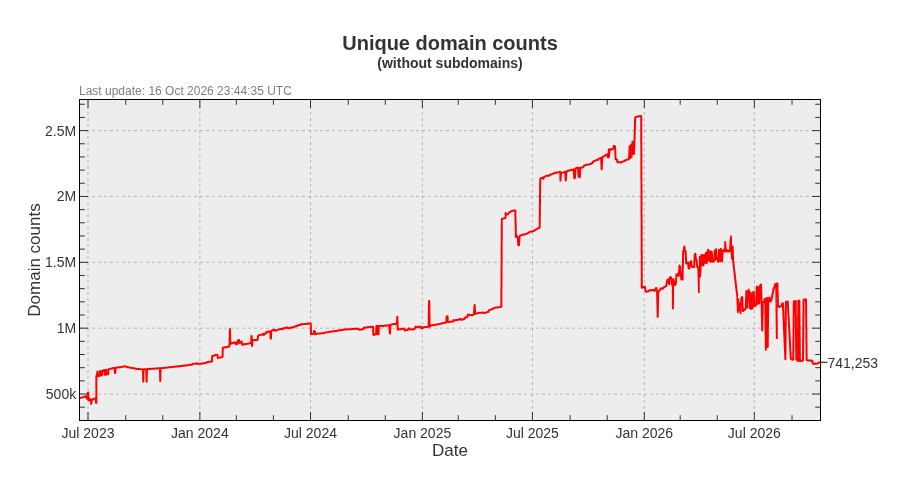
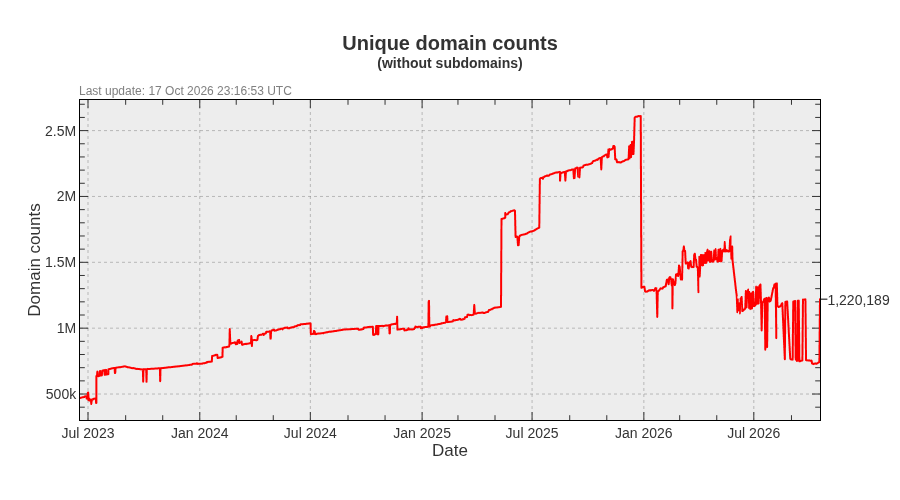
Update pages

diff --git a/README.md b/README.md
@@ -3,22 +3,22 @@ A blocklist file for blocking ads, trackers and malware domains.
 
[1 lines of base64/hex data omitted]
 
-- Unique domains: 1,461,130
-- Without subdomains: 741,253
-- Last update: 16 Oct 2026 23:44:35 UTC
-- Version: 2026.10.16.01
+- Unique domains: 2,002,277
+- Without subdomains: 1,220,189
+- Last update: 17 Oct 2026 23:16:53 UTC
+- Version: 2026.10.17.01
 
 
 ## Downloads:
 
 | Format             | Domain count      | Download Link |
 |------------------ | -----------------|-------------|
-| *Adblock Plus*     | 741,253 | [bad-hosts-abp](https://dl.cenk.app/bad-hosts/bad-hosts-abp) |
-| *Wildcard domains* | 741,253 | [bad-hosts-wildcard](https://dl.cenk.app/bad-hosts/bad-hosts-wildcard) |
-| *dnsmasq*          | 741,253 | [bad-hosts-dnsmasq](https://dl.cenk.app/bad-hosts/bad-hosts-dnsmasq) |
-| *hosts*            | 1,461,130 | [hosts](https://dl.cenk.app/bad-hosts/hosts) |
-| *hosts (ipv6)*     | 1,461,130 | [hosts-ipv6](https://dl.cenk.app/bad-hosts/hosts-ipv6) |
-| *Plain domains*    | 1,461,130 | [bad-hosts-domains](https://dl.cenk.app/bad-hosts/bad-hosts-domains) |
+| *Adblock Plus*     | 1,220,189 | [bad-hosts-abp](https://dl.cenk.app/bad-hosts/bad-hosts-abp) |
+| *Wildcard domains* | 1,220,189 | [bad-hosts-wildcard](https://dl.cenk.app/bad-hosts/bad-hosts-wildcard) |
+| *dnsmasq*          | 1,220,189 | [bad-hosts-dnsmasq](https://dl.cenk.app/bad-hosts/bad-hosts-dnsmasq) |
+| *hosts*            | 2,002,277 | [hosts](https://dl.cenk.app/bad-hosts/hosts) |
+| *hosts (ipv6)*     | 2,002,277 | [hosts-ipv6](https://dl.cenk.app/bad-hosts/hosts-ipv6) |
+| *Plain domains*    | 2,002,277 | [bad-hosts-domains](https://dl.cenk.app/bad-hosts/bad-hosts-domains) |
 
 ## Domain count history
 ### With subdomains
